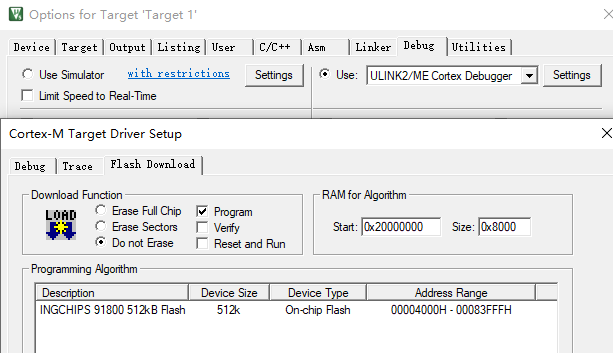
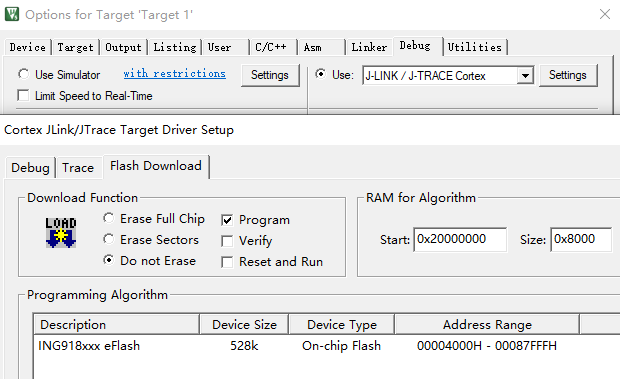
update

Changed region(s): [[0.0, 0.0935, 1.0, 1.0], [0.0, 0.0, 0.3409, 0.0623], [0.9608, 0.0312, 1.0, 0.0623]]

diff --git a/docs/mass_production/swd_burn/index.html b/docs/mass_production/swd_burn/index.html
@@ -340,8 +340,7 @@
               <h1 class="post-title line-left">使用 SWD 接口进行产品量产</h1>
             </header><!-- .post-header -->
             <div class="post-content">
-              <p>ING918 系列芯片支持通过 SWD 接口进行批量烧写。工具可以直接使用 IDE 或者专门的 JTAG/SWD 工具。本文
-以 Keil 和 J-Link 为例介绍具体操作步骤。</p>
+              <p>ING918 系列芯片支持使用 IDE 或者专门的 JTAG/SWD 工具通过 SWD 接口进行批量烧写。具体操作步骤如下。</p>
 
 <h2 id="使用-keil-量产">使用 Keil 量产</h2>
 
@@ -350,7 +349,14 @@
 用户可以按照步骤自行创建或者直接 <a href="https://github.com/ingchips/doc_release/releases/download/v1.0/keil_burn_plt_start.zip">下载</a>(<a href="https://hub.fastgit.org/ingchips/doc_release/releases/download/v1.0/keil_burn_plt_start.zip">镜像</a>)我们提供的示例。
 </div>
 
-<h3 id="用来烧写-platform-的空白项目">用来烧写 platform 的空白项目</h3>
+<h3 id="环境需求">环境需求</h3>
+
+<ul>
+  <li>Keil μVision 4 或 5</li>
+  <li>支持 SWD 接口的调试器（如 ULINK/J-Link 等）</li>
+</ul>
+
+<h3 id="准备项目">准备项目</h3>
 
 <ol>
   <li>
@@ -358,12 +364,13 @@
 
     <p>在 Keil 里新建一个项目，CPU 选为 INGCHIPS -&gt; ING91800。项目创建完成后，确认不包含任何源代码（C 或汇编），如果有，
  则将其删除。</p>
-
+  </li>
+  <li>
     <p>修改项目的属性：</p>
 
     <ul>
       <li>
-        <p>将输出的可执行文件改为 platform.hex （注意扩展名为 .hex）</p>
+        <p>将输出的可执行文件改为 platform_entry.hex （注意扩展名为 .hex）</p>
 
         <p><img src="exe_name_v4.png" alt="keil4_exe_name" /></p>
       </li>
@@ -376,42 +383,42 @@
         <p><img src="burn_algo_v5.png" alt="keil5_settings" /></p>
       </li>
       <li>
-        <p>确认选择了 SWD 端口而非 JTAG 端口</p>
-
-        <p>ING918 只有 SWD 端口，无 JTAG 端口。</p>
+        <p>确认选择了 SWD 端口而非 JTAG 端口（ING918 只有 SWD 端口，无 JTAG 端口）</p>
       </li>
     </ul>
   </li>
   <li>
-    <p>准备 platform.hex</p>
+    <p>复制 platform_entry.hex</p>
 
-    <p>使用 hex 转换工具（如 <a href="https://pypi.org/project/IntelHex/">IntelHex</a>）将要写入产品的 platform.bin 转换为
- platform.hex。</p>
+    <p>在 SDK 目录中找到与芯片型号对应的 platform_entry.hex，复制到 Keil 项目目录下。</p>
 
-    <p>假设创建的空白项目全名为 “C:\project\platform\platform.uvproj”，将 platform.hex 复制到  “C:\project\platform”
- 目录下。</p>
+    <div class="note">
+ <strong>说明:</strong> 假设 SDK 的安装路径为 /ING_SDK，则 ING9188xx 系列芯片的 platform_entry.hex 存放于
+ /ING_SDK/sdk/bundles/typical/ING9188xx。
+ </div>
   </li>
   <li>
-    <p>烧写</p>
+    <p>烧写测试</p>
 
     <p>在 Keil 里直接点击 Flash Download 按钮即可完成烧写。如果出现错误，请对照检查项目设置是否有误。</p>
   </li>
 </ol>
-
-<h3 id="用来烧写启动地址的空白项目">用来烧写启动地址的空白项目</h3>
-
-<p>按相同的步骤重新创建一个空白项目。该项目用来烧写程序的启动地址：在 0x00087FFC 处写入 32bit 数值 0x00004000。
-可参考 <a href="keil_burn_plt_start.zip">示例</a> 里的 startaddr 项目。</p>
 
 <h3 id="量产">量产</h3>
 
 <p>量产时通过命令行调用 Keil 实现批量烧写:</p>
 
 <div class="highlighter-rouge"><div class="highlight"><pre class="highlight"><code>C:\Keil\UV4\UV4 -f C:\project\platform\platform.uvproj
-C:\Keil\UV4\UV4 -f C:\project\startaddr\startaddr.uvproj
 </code></pre></div></div>
 
 <h2 id="使用-j-link-量产">使用 J-Link 量产</h2>
+
+<h3 id="环境需求-1">环境需求</h3>
+
+<ul>
+  <li>J-Link 调试器</li>
+  <li><a href="https://www.segger.com/downloads/jlink/">J-Link 软件</a></li>
+</ul>
 
 <h3 id="手动添加芯片型号">手动添加芯片型号</h3>
 
@@ -441,22 +448,49 @@ C:\Keil\UV4\UV4 -f C:\project\startaddr\startaddr.uvproj
 
 <p><img src="jlink_target_sel.png" alt="target_ing9188xx" /></p>
 
-<p>将要写入产品的 platform.bin 拖入 J-Flash 界面，地址设为 0x0004000。点击 Target -&gt; Connect 菜单，
-然后点击 Target -&gt;Manual Programming -&gt; Program，即可将 platform.bin 烧写到产品。同法可以烧写
-启动地址。</p>
+<p>将要写入产品的 platform_entry.hex 拖入 J-Flash 界面。点击 Target -&gt; Connect 菜单，
+然后点击 Target -&gt;Manual Programming -&gt; Program，即可将 platform_entry.hex 烧写到产品。</p>
 
 <div class="note">
-<strong>说明:</strong> J-Flash 需要注册方可使用全部功能。
+<strong>注意:</strong> J-Flash 需要注册方可使用全部功能。
 </div>
 
 <h3 id="合并数据">合并数据</h3>
 
-<p>为了量产方便，通过 File -&gt; Merge data file 菜单将前文挺到的将 platform.bin、startaddr.bin 以及产品固件合并
+<p>为了量产方便，可以通过 File -&gt; Merge data file 菜单将前文挺到的将 platform_entry.hex 和产品固件合并
 为一个 hex 数据文件。</p>
 
 <h3 id="量产-1">量产</h3>
 
 <p>量产时通过命令行调用 J-Flash 实现批量烧写。</p>
+
+<h2 id="使用其它-ide-进行量产">使用其它 IDE 进行量产</h2>
+
+<h3 id="iar-embedded-workbench-for-arm">IAR Embedded Workbench for ARM</h3>
+
+<p>参考 <em><a href="https://www.iar.com/support/tech-notes/general/programming-binary-files-into-flash-within-ewarm/">Programming binary file(s) into flash</a></em>。</p>
+
+<h3 id="rowley-crossworks--segger-embedded-studio">Rowley CrossWorks / SEGGER Embedded Studio</h3>
+
+<p>在项目选项中把 platform_entry.hex 作为额外需要下载的文件即可。</p>
+
+<p><img src="segger_extra_bin.png" alt="extra_bin" /></p>
+
+<h2 id="hex-文件说明">hex 文件说明</h2>
+
+<p>SDK 提供关于 platform 的三个 hex 文件，各自的用途总结如下：</p>
+
+<ul>
+  <li>
+    <p><strong>platform.hex</strong>：用于产品研发、调试过程中 SDK 的升级；</p>
+  </li>
+  <li>
+    <p><strong>platform_entry.hex</strong>：将<strong>新</strong>芯片用于研发、调试时的首次烧写；</p>
+  </li>
+  <li>
+    <p><strong>platform_entry_lock.hex</strong>：用于产品最终量产（启用 IP 保护）。</p>
+  </li>
+</ul>
 
               
               

diff --git a/docs/sdk/sdk/index.html b/docs/sdk/sdk/index.html
@@ -375,7 +375,7 @@ BLE apps with our SDK.</p>
       <td style="text-align: center"><a href="https://github.com/ingchips/sdk/releases/download/v(null)/ingchips_sdk_macos_x86_v(null).tar.gz">(null)</a></td>
     </tr>
     <tr>
-      <td style="text-align: center"><strong>Download</strong><br />(Mirror)</td>
+      <td style="text-align: center"><strong>Download</strong><br />(镜像)</td>
       <td style="text-align: left"><a href="https://hub.fastgit.org/ingchips/sdk/releases/download/v3.0.0/ingchips_sdk_setup_v3.0.0.exe">3.0.0</a></td>
       <td style="text-align: center"><a href="https://hub.fastgit.org/ingchips/sdk/releases/download/v(null)/ingchips_sdk_linux_x86_v(null).tar.gz">(null)</a></td>
       <td style="text-align: center"><a href="https://hub.fastgit.org/ingchips/sdk/releases/download/v(null)/ingchips_sdk_macos_x86_v(null).tar.gz">(null)</a></td>

diff --git a/docs/mass_production/ip_protection/index.html b/docs/mass_production/ip_protection/index.html
@@ -354,7 +354,7 @@
 
 <h3 id="swd-接口">SWD 接口</h3>
 
-<p>参考通过 SWD 接口进行量产的<a href="../swd_burn/">说明</a>，在 0x00087FF0 处写入 32bit 数值 0x00000001。</p>
+<p>参考通过 SWD 接口进行量产的<a href="../swd_burn/">说明</a>，用 platform_entry_lock.hex 代替 platform_entry.hex。</p>
 
 <h2 id="注意事项">注意事项</h2>
 
@@ -366,7 +366,7 @@
 </ol>
 
 <div class="important">
-<strong>注意:</strong> 如果既客户产品中未引出 UART0，也无 FOTA 功能，则客户固件将进入“锁定”状态：
+<strong>注意:</strong> 如果客户产品中既未引出 UART0，也无 FOTA 功能，则产品固件将进入“锁定”状态：
 无法升级、无法读取、无法调试。
 </div>
 

diff --git a/docs/sdk/apps/index.html b/docs/sdk/apps/index.html
@@ -358,7 +358,7 @@
       <th style="text-align: center">Name</th>
       <th style="text-align: center"><img src="/images/btn_appstore.png" width="100px" /><br /></th>
       <th style="text-align: center"><img src="/images/android.png" alt="Android" width="60px" /><br />Android (Github)</th>
-      <th style="text-align: center"><img src="/images/android.png" alt="Android" width="60px" /><br />Android (Mirror)</th>
+      <th style="text-align: center"><img src="/images/android.png" alt="Android" width="60px" /><br />Android (镜像)</th>
     </tr>
   </thead>
   <tbody>
